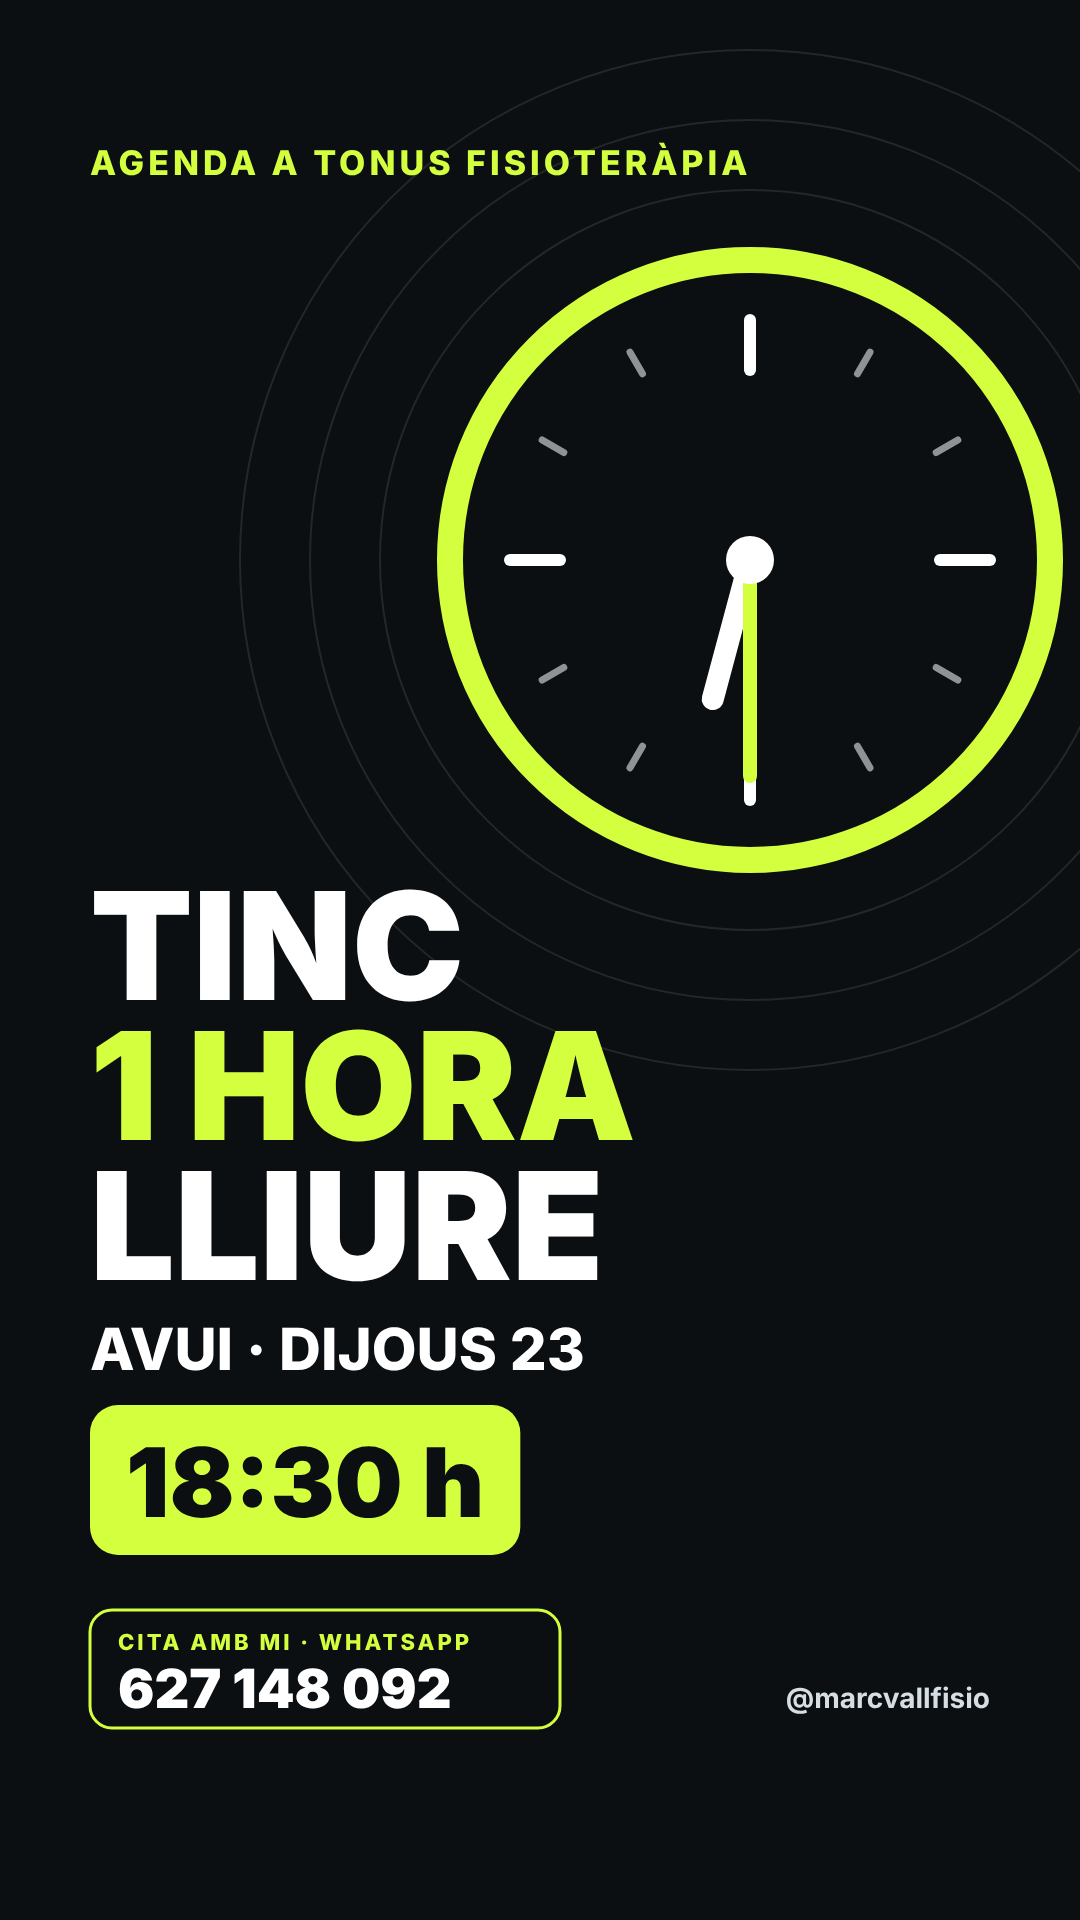
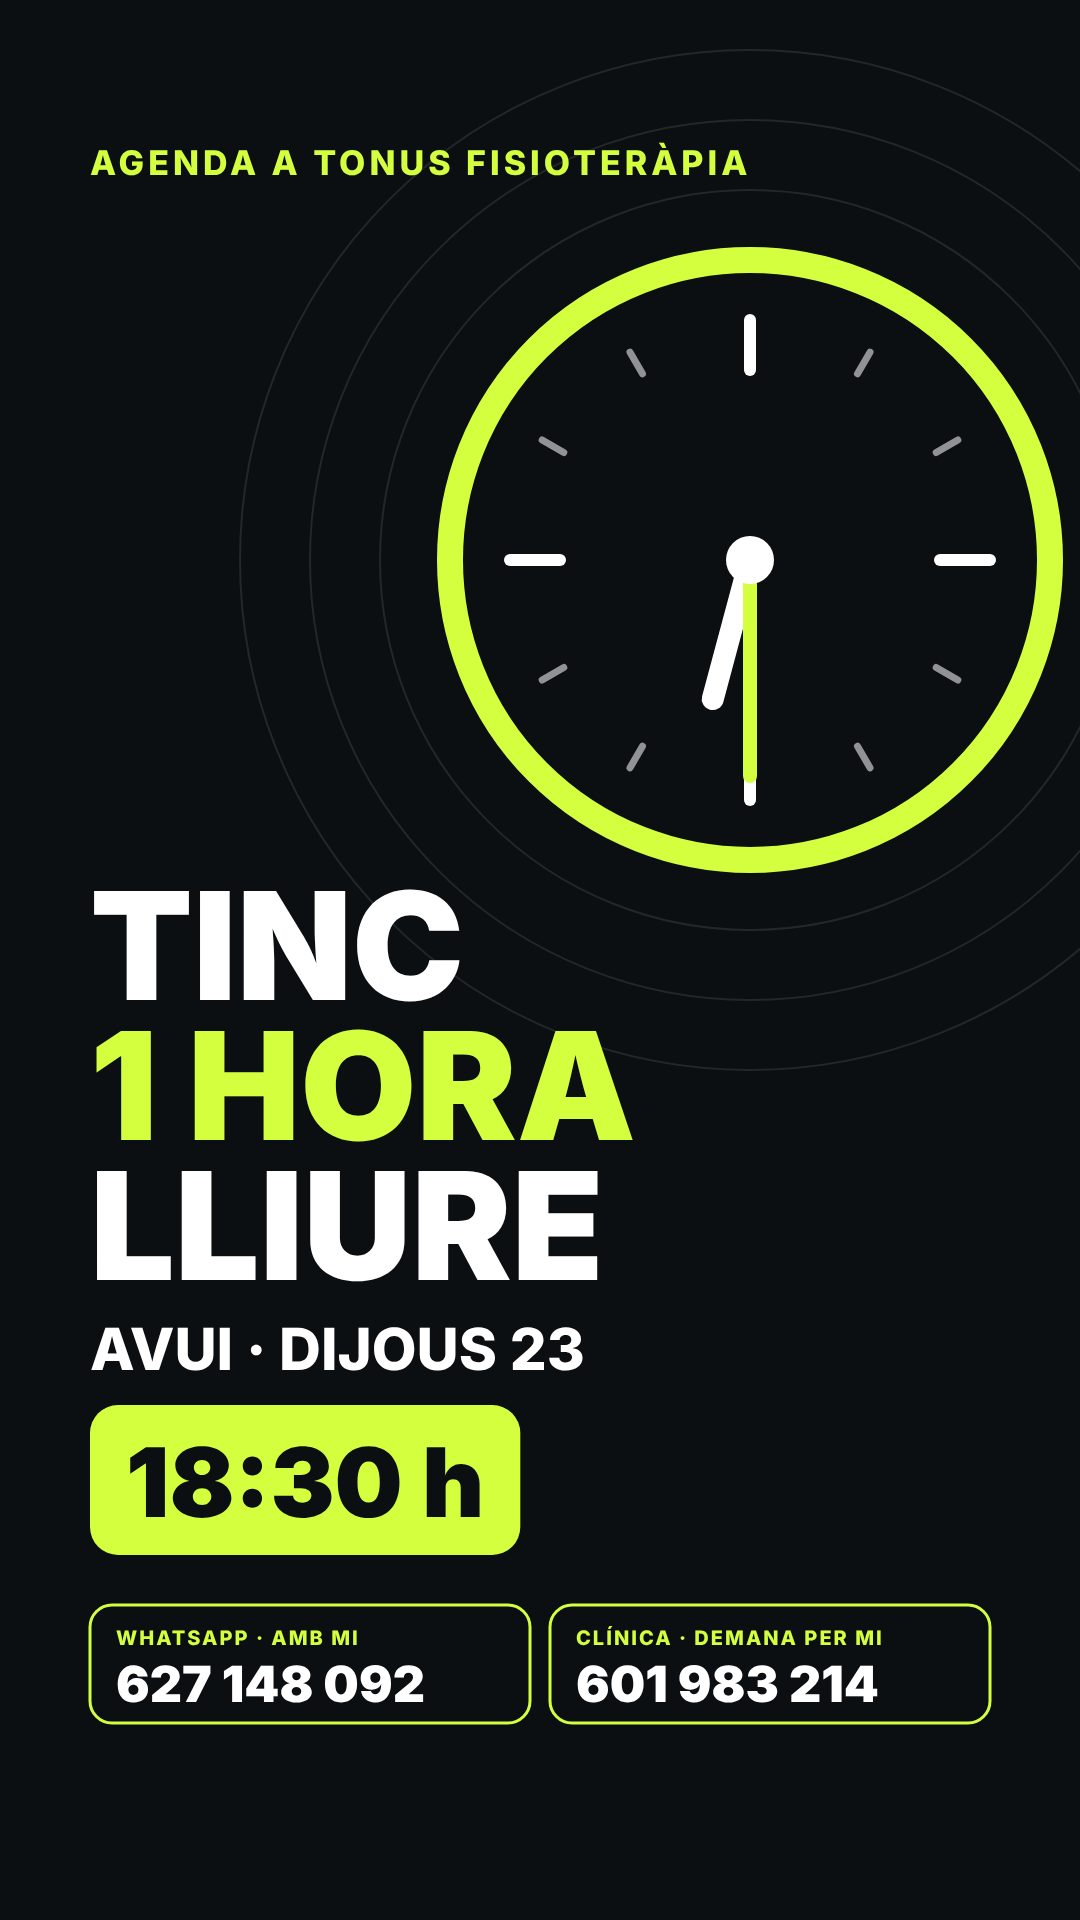
Story Hores lliures: afegir telèfon de la clínica
Claude-Session: https://claude.ai/code/session_0129rqGdsRmN9Z9aLzGCda8A

Changed region(s): [[0.0917, 0.8125, 0.9167, 0.9062]]

diff --git a/templates/story_hores_lliures.html b/templates/story_hores_lliures.html
@@ -167,12 +167,14 @@ function draw(){
 
   // note
 
-  // contact (small, low)
-  const cy=1610, cw=470, ch=118;
-  ctx.strokeStyle=ACC; ctx.lineWidth=3; rr(L,cy,cw,ch,22); ctx.stroke();
-  ctx.font='800 22px Inter'; ctx.letterSpacing='3px'; ctx.fillStyle=ACC; ctx.fillText('CITA AMB MI · WHATSAPP',L+28,cy+40); ctx.letterSpacing='0px';
-  ctx.font='900 54px Inter'; ctx.fillStyle='#fff'; ctx.fillText('627 148 092',L+28,cy+98);
-  ctx.font='700 28px Inter'; ctx.fillStyle='#D6DEE3'; ctx.textAlign='right'; ctx.fillText('@marcvallfisio',W-L,cy+98); ctx.textAlign='left';
+  // contact (small, low): WhatsApp personal + clínica
+  const cy=1605, gap=20, cw=(W-2*L-gap)/2, ch=118;
+  [['WHATSAPP · AMB MI','627 148 092'],['CLÍNICA · DEMANA PER MI','601 983 214']].forEach(([k,v],i)=>{
+    const x=L+i*(cw+gap);
+    ctx.strokeStyle=ACC; ctx.lineWidth=3; rr(x,cy,cw,ch,22); ctx.stroke();
+    ctx.font='800 20px Inter'; ctx.letterSpacing='2px'; ctx.fillStyle=ACC; ctx.fillText(k,x+26,cy+40); ctx.letterSpacing='0px';
+    ctx.font='900 50px Inter'; ctx.fillStyle='#fff'; ctx.fillText(v,x+26,cy+97);
+  });
 }
 
 // save

diff --git a/skills/instagram-marcvallfisio/references/disseny.md b/skills/instagram-marcvallfisio/references/disseny.md
@@ -22,4 +22,4 @@ Más: ubicación Tarragona, texto alternativo por diapositiva, post a las 13:30 
 Marc prefiere no grabar: los Reels se montan con diapositivas verticales 1080×1920 (plantilla `templates/reel_vertical.html`) con zoom lento + clips de sus vídeos, unidos con ffmpeg (~20 s). Texto entre y=700 y y=1550 (zona segura). Marc añade la música en la app. Explicarle siempre en lenguaje sencillo, sin jerga.
 
 ## Story «Hores lliures»
-Plantilla per anunciar hores disponibles: `templates/story_hores_lliures.html` (pàgina publicada i fixada a claude.ai: https://claude.ai/artifact/4t9H3BScyi9jaQhnv5HPHr). Fons negre amb rellotge verd llima que marca la primera hora, etiqueta «Agenda a Tonus Fisioteràpia», títol «Tinc 1 hora lliure / 2 hores lliures», dia + data, hores en caixes llima, contacte WhatsApp petit a baix. Sense foto i sense frase extra (Marc ho va demanar així).
+Plantilla per anunciar hores disponibles: `templates/story_hores_lliures.html` (pàgina publicada i fixada a claude.ai: https://claude.ai/artifact/4t9H3BScyi9jaQhnv5HPHr). Fons negre amb rellotge verd llima que marca la primera hora, etiqueta «Agenda a Tonus Fisioteràpia», títol «Tinc 1 hora lliure / 2 hores lliures», dia + data, hores en caixes llima, a baix dues caixes petites: «WhatsApp · amb mi 627 148 092» i «Clínica · demana per mi 601 983 214» (telèfon de Tonus, sempre amb «demana per mi»). Sense foto i sense frase extra (Marc ho va demanar així).
